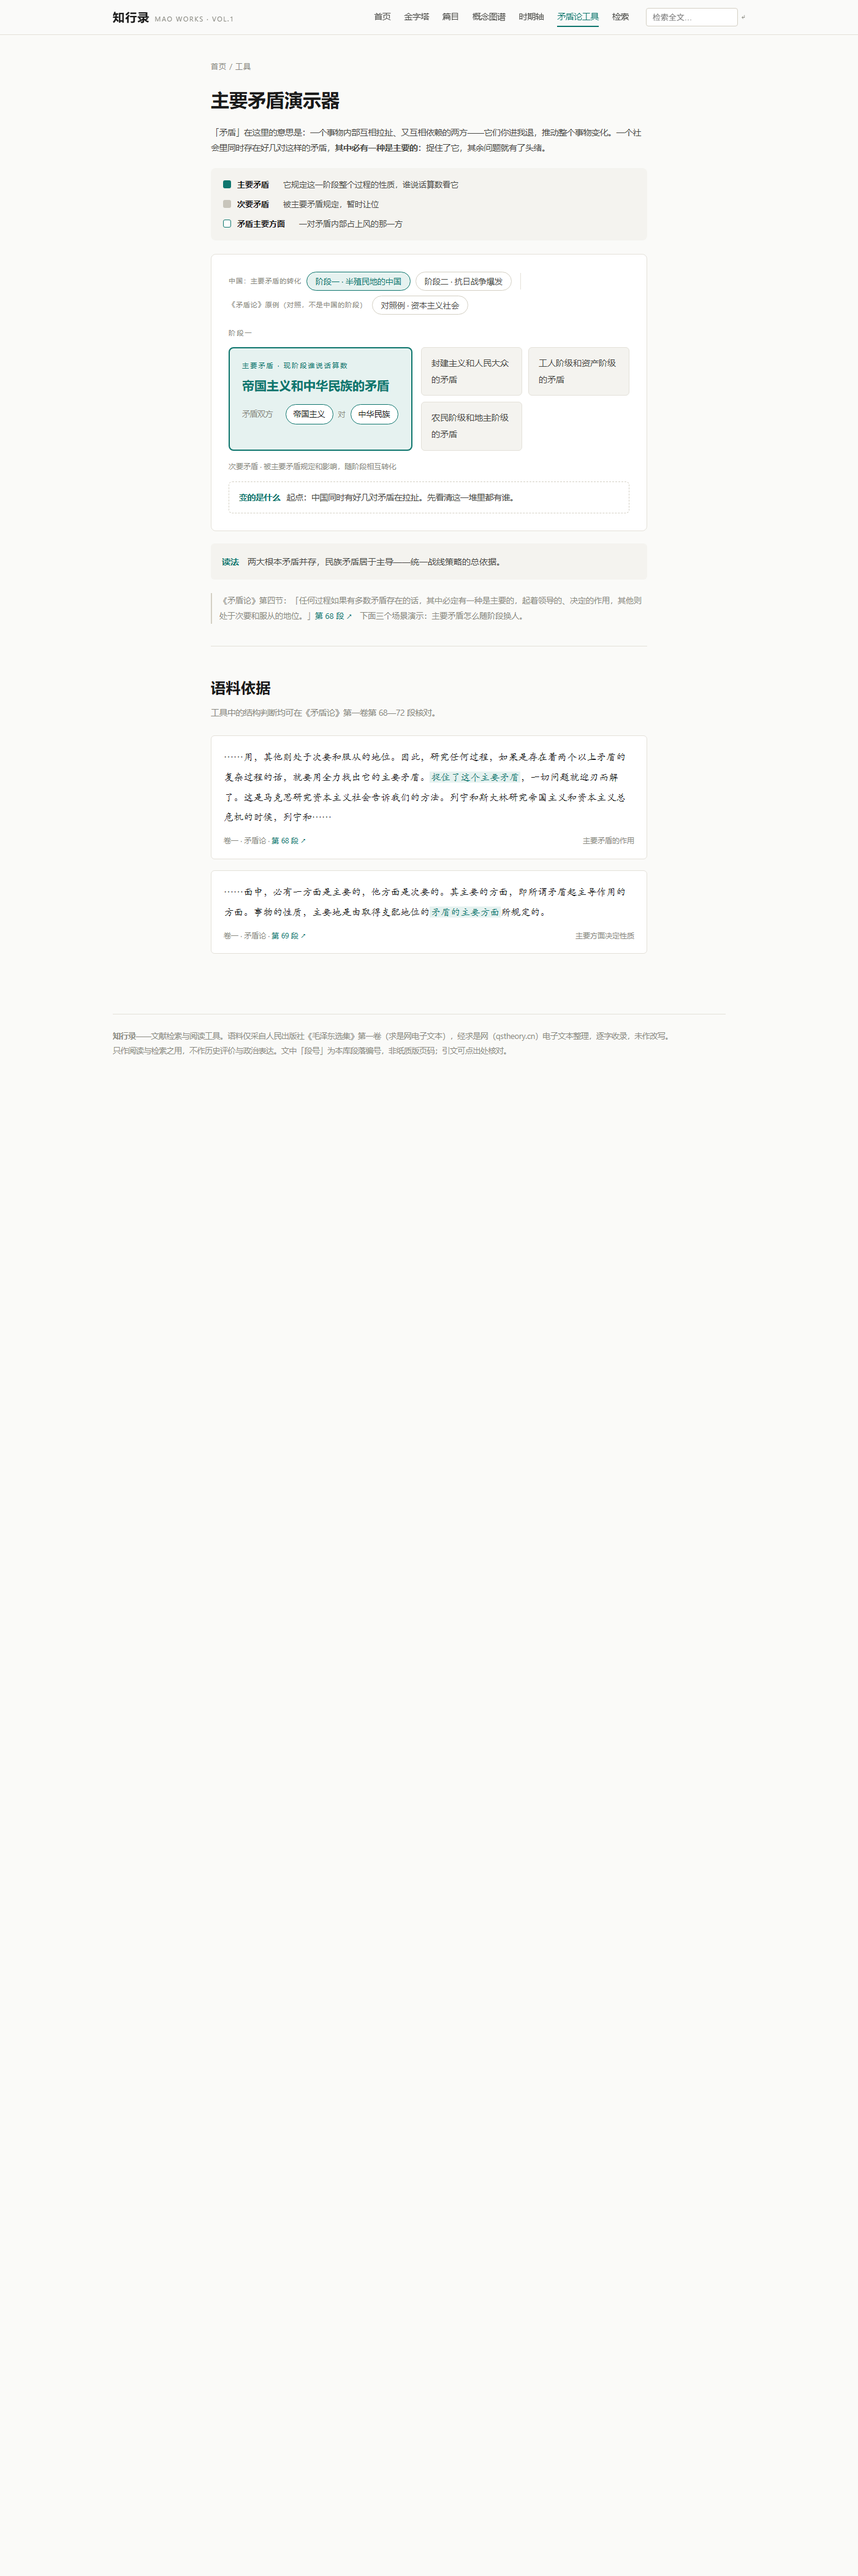
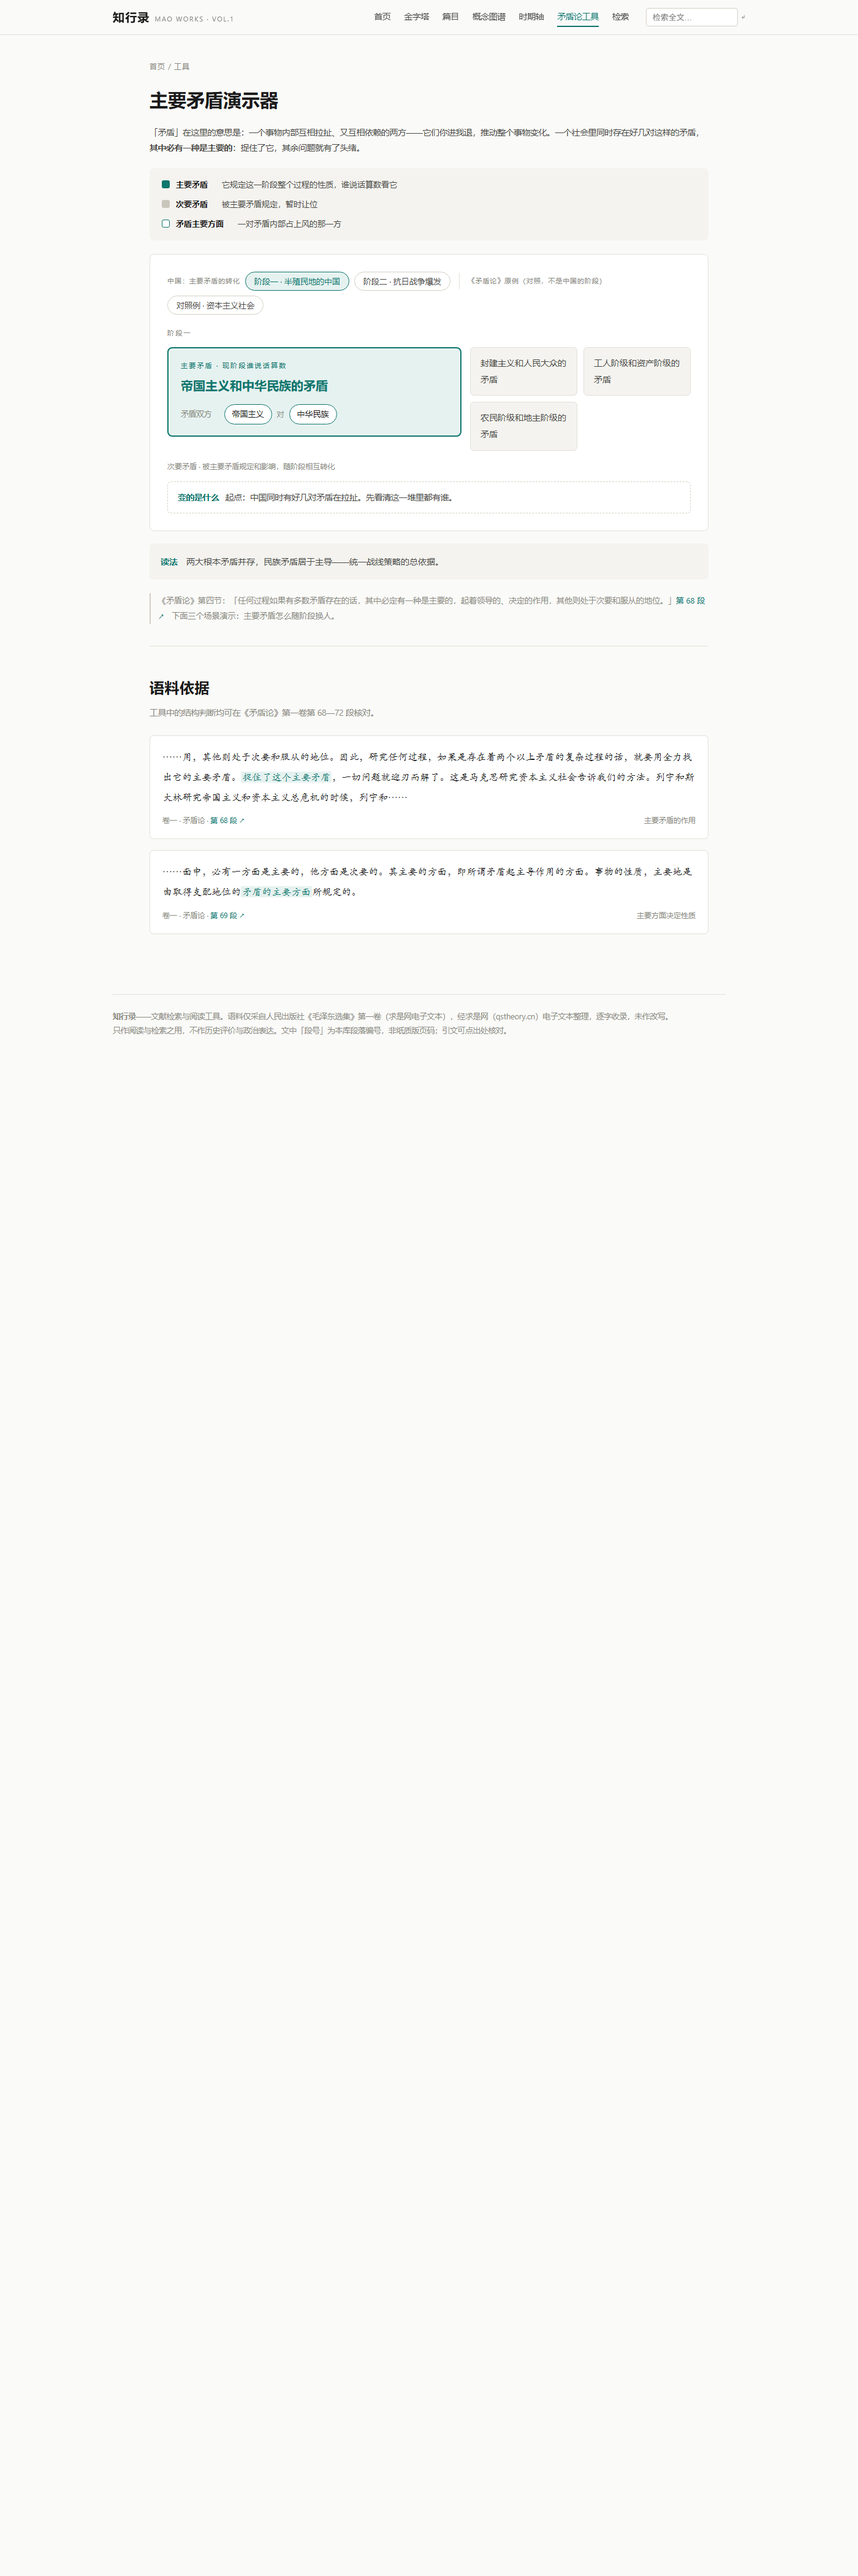
矛盾论工具页高度与折行修正（用户「这个高度有点问题」）：
① 主因：.md-grid 用 align-items:stretch，主矛盾卡被拉高到与右列三卡总高齐平，卡内大片空白。改 flex-start，两栏各按自身内容定高。

② 次因：.md-sec 是两列网格，三张次要矛盾卡落单一张会独占整行并被拉伸。加 align-content:start，每张卡只占内容高度。

③ 折行：「日本帝国主义 对 中华民族」在主卡内被挤成两行。.md-chip 加 white-space:nowrap 保标签不断行；主卡 flex-basis 300→480px 给足宽度，右侧三卡 340→320px；容器加 .tool-wide 变体 960px（演示器图是主角，760px 装不下并排）。

④ 窄屏（≤860px）：主卡改 flex:1 1 100% 撑满、secondary 单列、chip 允许换行、stage 内距收窄；顶栏品牌英文副标（11px 加字距）与固定 150px 检索框在窄屏会顶出视口，一并收起/缩宽。顺带补 .tool-stage 与 .md-grid 的 min-width:0，防止弹性子项撑破页面。

⑤ 测量教训（重要）：Windows 上 Chrome headless 的 --window-size 有最小宽度（实测传 375/390/430 视口都是 489-500px），截图宽度却按传入值裁——于是"内容超出"其实是截图裁切造成的假象。判断是否横向溢出不能看截图，要注入脚本读 documentElement.scrollWidth 对比 clientWidth（本次三档实测 scrollW==vw、溢出元素 0 个）。据此撤掉了草率添加的 body{overflow-x:hidden} 兜底——它会掩盖真问题。

⑥ 附带：演示器支持用 URL hash 指定初始场景（#a/#b/#c），方便直接分享某个阶段的图。

⑦ verify_site 通过（44 页无死链、版本号统一 v22）；style.css?v=22

Changed region(s): [[0.1229, 0.0312, 0.7371, 0.4055], [0.645, 0.3743, 0.7064, 0.4055], [0.7371, 0.3743, 0.7679, 0.4055]]

diff --git a/site/assets/style.css b/site/assets/style.css
@@ -65,6 +65,8 @@ body {
 /* ---------- 布局 ---------- */
 .wrap { max-width: 1080px; margin: 0 auto; padding: 0 24px; }
 .narrow { max-width: 760px; margin: 0 auto; padding: 0 24px; }
+/* 演示器页放宽：主矛盾卡与三张次要矛盾卡并排需要宽度，760px 装不下会折成上下两行 */
+.narrow.tool-wide { max-width: 960px; }
 
 /* ---------- 首页 ---------- */
 .hero { padding: 72px 0 40px; border-bottom: 1px solid var(--line); }
@@ -228,7 +230,10 @@ a.term:hover { border-bottom-color: var(--teal); }
 .tl-item .s { font-size: 13px; color: var(--ink-3); margin-top: 2px; }
 
 /* ---------- 工具页 ---------- */
-.tool-stage { background: #fff; border: 1px solid var(--line); border-radius: 8px; padding: 28px; margin: 20px 0; }
+/* min-width:0 让 stage 在窄屏可以压到比内容更窄，否则内部弹性布局撑破页面 */
+.tool-stage { background: #fff; border: 1px solid var(--line); border-radius: 8px; padding: 28px; margin: 20px 0; min-width: 0; }
+/* 标签行在窄屏要能换行（nowrap 的 chip 会顶出右边界） */
+.md-sides { min-width: 0; }
 /* 图例＝三条阅读规则：色块是图上的记号，右字说明它代表什么、为什么这么画 */
 .tool-legend { display: flex; flex-direction: column; gap: 9px; font-size: 13px; color: var(--ink-2); margin: 20px 0 22px; padding: 16px 20px; background: var(--paper-2); border-radius: 8px; }
 .tool-legend .k { display: flex; align-items: baseline; gap: 10px; line-height: 1.75; }
@@ -246,16 +251,21 @@ a.term:hover { border-bottom-color: var(--teal); }
 .tool-tab-sep { width: 1px; align-self: stretch; background: var(--line); margin: 2px 6px; }
 /* 场景 */
 .md-phase { font-size: 11px; color: var(--ink-3); letter-spacing: 0.2em; margin-bottom: 12px; }
-.md-grid { display: flex; flex-wrap: wrap; gap: 14px; align-items: stretch; }
-.md-main { flex: 1 1 300px; padding: 18px 20px; background: #E6F2F0; border: 2px solid #0F766E; border-radius: 8px; }
+/* stretch 会把主矛盾卡拉高去填右列的总高，造出一大片空白——
+   改 flex-start 让两张卡各按自己的内容定高 */
+.md-grid { display: flex; flex-wrap: wrap; gap: 14px; align-items: flex-start; min-width: 0; }
+/* 主卡与右侧三卡并排：basis 给足「A 对 B」标签不折行，但允许收缩，不与三卡抢到折行 */
+.md-main { flex: 0 1 480px; padding: 18px 20px; background: #E6F2F0; border: 2px solid #0F766E; border-radius: 8px; }
 .md-tag { font-size: 11px; color: #0F766E; letter-spacing: 0.2em; }
 .md-title { font-family: var(--display); font-size: 20px; font-weight: 700; margin-top: 6px; color: #0F766E; line-height: 1.5; }
+/* 标签行：给标签本身留足宽度，避免「日本帝国主义 对 中华民族」被挤成两行 */
 .md-sides { font-size: 12.5px; color: var(--ink-3); margin-top: 16px; display: flex; align-items: center; flex-wrap: wrap; gap: 8px; }
-.md-chip { display: inline-flex; align-items: center; gap: 7px; background: #fff; border: 1px solid #0F766E; border-radius: 999px; padding: 3px 12px; font-size: 13px; color: var(--ink); }
+.md-chip { display: inline-flex; align-items: center; gap: 7px; background: #fff; border: 1px solid #0F766E; border-radius: 999px; padding: 3px 12px; font-size: 13px; color: var(--ink); white-space: nowrap; }
 .md-chip-main { border-width: 2px; font-weight: 600; }
 .md-chip em { font-style: normal; font-size: 10px; color: #fff; background: #0F766E; border-radius: 999px; padding: 1px 7px; letter-spacing: 0.05em; }
 .md-vs { color: var(--ink-3); font-size: 12px; }
-.md-sec { flex: 2 1 340px; display: grid; grid-template-columns: 1fr 1fr; gap: 10px; }
+/* align-content:start——否则三张卡（两列网格里落单一张）会被平均拉伸，各自高得离谱 */
+.md-sec { flex: 1 1 320px; display: grid; grid-template-columns: 1fr 1fr; gap: 10px; align-content: start; }
 .md-sec-card { padding: 12px 16px; background: #F4F3EF; border: 1px solid var(--line); border-radius: 6px; font-size: 14px; color: var(--ink-2); }
 .md-sec-note { font-size: 12px; color: var(--ink-3); margin-top: 14px; }
 .tool-change { font-size: 13.5px; color: var(--ink-2); line-height: 1.9; margin-top: 14px; padding: 12px 16px; background: #fff; border: 1px dashed var(--line-2); border-radius: 6px; }
@@ -328,8 +338,26 @@ a.term:hover { border-bottom-color: var(--teal); }
   .entries { grid-template-columns: repeat(2, 1fr); }
   .concept-grid { grid-template-columns: 1fr; }
   .md-sec { grid-template-columns: 1fr; }
+  /* 窄屏：主卡的 480px basis 会顶破屏幕，改成撑满即可 */
+  .md-main { flex: 1 1 100%; }
+  .md-sides { gap: 6px; }
+  .md-chip { padding: 3px 9px; font-size: 12.5px; white-space: normal; }
+  .md-title { font-size: 17px; word-break: break-all; }
+  .tool-stage { padding: 18px 16px; }
+  .tool-tab { font-size: 12px; padding: 5px 11px; }
+  /* 窄屏兜底：标签组与图例允许断行，防止长中文标签撑破视口 */
+  .tool-tab-grp, .tool-legend .k, .md-sec-note { word-break: break-word; }
+  .tool-legend { padding: 14px 16px; }
   .pyr-branches { grid-template-columns: 1fr; }
   .nav { display: none; }
+  /* 窄屏顶栏：品牌英文副标 + 固定 150px 检索框把顶栏撑出视口，连带整页横向溢出。
+     副标收起、检索框缩宽（聚焦时也不再撑大），顶栏不再溢出 */
+  .brand small { display: none; }
+  .topbar-in { gap: 12px; padding: 0 16px; }
+  .searchbox { margin-left: auto; min-width: 0; }
+  .searchbox input { width: 118px; }
+  .searchbox input:focus { width: 150px; }
+  .wrap, .narrow { padding: 0 16px; }
   .hero { padding: 48px 0 32px; }
   .hero h1 { font-size: 32px; }
   .work-row .ct { display: none; }

diff --git a/site/tool-maodun.html b/site/tool-maodun.html
@@ -5,7 +5,7 @@
 <meta name="viewport" content="width=device-width, initial-scale=1.0">
 <title>主要矛盾演示器 · 知行录</title>
 <meta name="description" content="知行录：《毛泽东选集》第一卷结构化知识库。17 篇正式出版文本，20 个概念节点，46 条溯源引文，每一段都可回溯到卷/篇/段。">
-<link rel="stylesheet" href="assets/style.css?v=19">
+<link rel="stylesheet" href="assets/style.css?v=22">
 </head>
 <body>
 <header class="topbar"><div class="topbar-in">
@@ -13,7 +13,7 @@
 <nav class="nav"><a href="index.html">首页</a><a href="pyramid.html">金字塔</a><a href="works.html">篇目</a><a href="concepts.html">概念图谱</a><a href="timeline.html">时期轴</a><a href="tool-maodun.html" class="on">矛盾论工具</a><a href="search.html">检索</a></nav>
 <div class="searchbox"><input id="q" type="search" placeholder="检索全文…" autocomplete="off"><span style="font-size:11px;color:var(--ink-3)">↵</span></div>
 </div></header>
-<div class="narrow" style="padding-top:40px">
+<div class="narrow tool-wide" style="padding-top:40px">
 <div class="crumb" style="font-size:12px;color:var(--ink-3)"><a href="index.html" style="color:var(--ink-3);text-decoration:none">首页</a> / 工具</div>
 <h1 style="font-family:var(--display);font-size:30px;font-weight:700">主要矛盾演示器</h1>
 <p style="font-size:13.5px;color:var(--ink-2);margin:12px 0 4px;line-height:1.9">「矛盾」在这里的意思是：一个事物内部互相拉扯、又互相依赖的两方——它们你进我退，推动整个事物变化。一个社会里同时存在好几对这样的矛盾，<b>其中必有一种是主要的</b>：捉住了它，其余问题就有了头绪。</p>

diff --git a/site/works/v1-003.html b/site/works/v1-003.html
@@ -5,7 +5,7 @@
 <meta name="viewport" content="width=device-width, initial-scale=1.0">
 <title>中国的红色政权为什么能够存在？ · 知行录</title>
 <meta name="description" content="知行录：《毛泽东选集》第一卷结构化知识库。17 篇正式出版文本，20 个概念节点，46 条溯源引文，每一段都可回溯到卷/篇/段。">
-<link rel="stylesheet" href="../assets/style.css?v=19">
+<link rel="stylesheet" href="../assets/style.css?v=22">
 </head>
 <body>
 <header class="topbar"><div class="topbar-in">

diff --git a/site/concepts/zhuyaomaodun.html b/site/concepts/zhuyaomaodun.html
@@ -5,7 +5,7 @@
 <meta name="viewport" content="width=device-width, initial-scale=1.0">
 <title>主要的矛盾和主要的矛盾方面 · 知行录</title>
 <meta name="description" content="知行录：《毛泽东选集》第一卷结构化知识库。17 篇正式出版文本，20 个概念节点，46 条溯源引文，每一段都可回溯到卷/篇/段。">
-<link rel="stylesheet" href="../assets/style.css?v=19">
+<link rel="stylesheet" href="../assets/style.css?v=22">
 </head>
 <body>
 <header class="topbar"><div class="topbar-in">

diff --git a/site/works/v1-011.html b/site/works/v1-011.html
@@ -5,7 +5,7 @@
 <meta name="viewport" content="width=device-width, initial-scale=1.0">
 <title>关心群众生活，注意工作方法 · 知行录</title>
 <meta name="description" content="知行录：《毛泽东选集》第一卷结构化知识库。17 篇正式出版文本，20 个概念节点，46 条溯源引文，每一段都可回溯到卷/篇/段。">
-<link rel="stylesheet" href="../assets/style.css?v=19">
+<link rel="stylesheet" href="../assets/style.css?v=22">
 </head>
 <body>
 <header class="topbar"><div class="topbar-in">

diff --git a/site/works/v1-015.html b/site/works/v1-015.html
@@ -5,7 +5,7 @@
 <meta name="viewport" content="width=device-width, initial-scale=1.0">
 <title>中国共产党在抗日时期的任务 · 知行录</title>
 <meta name="description" content="知行录：《毛泽东选集》第一卷结构化知识库。17 篇正式出版文本，20 个概念节点，46 条溯源引文，每一段都可回溯到卷/篇/段。">
-<link rel="stylesheet" href="../assets/style.css?v=19">
+<link rel="stylesheet" href="../assets/style.css?v=22">
 </head>
 <body>
 <header class="topbar"><div class="topbar-in">

diff --git a/site/works/v1-012.html b/site/works/v1-012.html
@@ -5,7 +5,7 @@
 <meta name="viewport" content="width=device-width, initial-scale=1.0">
 <title>论反对日本帝国主义的策略 · 知行录</title>
 <meta name="description" content="知行录：《毛泽东选集》第一卷结构化知识库。17 篇正式出版文本，20 个概念节点，46 条溯源引文，每一段都可回溯到卷/篇/段。">
-<link rel="stylesheet" href="../assets/style.css?v=19">
+<link rel="stylesheet" href="../assets/style.css?v=22">
 </head>
 <body>
 <header class="topbar"><div class="topbar-in">

diff --git a/site/works/v1-005.html b/site/works/v1-005.html
@@ -5,7 +5,7 @@
 <meta name="viewport" content="width=device-width, initial-scale=1.0">
 <title>关于纠正党内的错误思想 · 知行录</title>
 <meta name="description" content="知行录：《毛泽东选集》第一卷结构化知识库。17 篇正式出版文本，20 个概念节点，46 条溯源引文，每一段都可回溯到卷/篇/段。">
-<link rel="stylesheet" href="../assets/style.css?v=19">
+<link rel="stylesheet" href="../assets/style.css?v=22">
 </head>
 <body>
 <header class="topbar"><div class="topbar-in">

diff --git a/site/works/v1-013.html b/site/works/v1-013.html
@@ -5,7 +5,7 @@
 <meta name="viewport" content="width=device-width, initial-scale=1.0">
 <title>中国革命战争的战略问题 · 知行录</title>
 <meta name="description" content="知行录：《毛泽东选集》第一卷结构化知识库。17 篇正式出版文本，20 个概念节点，46 条溯源引文，每一段都可回溯到卷/篇/段。">
-<link rel="stylesheet" href="../assets/style.css?v=19">
+<link rel="stylesheet" href="../assets/style.css?v=22">
 </head>
 <body>
 <header class="topbar"><div class="topbar-in">

diff --git a/site/concepts/maodun.html b/site/concepts/maodun.html
@@ -5,7 +5,7 @@
 <meta name="viewport" content="width=device-width, initial-scale=1.0">
 <title>矛盾（对立统一法则） · 知行录</title>
 <meta name="description" content="知行录：《毛泽东选集》第一卷结构化知识库。17 篇正式出版文本，20 个概念节点，46 条溯源引文，每一段都可回溯到卷/篇/段。">
-<link rel="stylesheet" href="../assets/style.css?v=19">
+<link rel="stylesheet" href="../assets/style.css?v=22">
 </head>
 <body>
 <header class="topbar"><div class="topbar-in">

diff --git a/site/works/v1-001.html b/site/works/v1-001.html
@@ -5,7 +5,7 @@
 <meta name="viewport" content="width=device-width, initial-scale=1.0">
 <title>中国社会各阶级的分析 · 知行录</title>
 <meta name="description" content="知行录：《毛泽东选集》第一卷结构化知识库。17 篇正式出版文本，20 个概念节点，46 条溯源引文，每一段都可回溯到卷/篇/段。">
-<link rel="stylesheet" href="../assets/style.css?v=19">
+<link rel="stylesheet" href="../assets/style.css?v=22">
 </head>
 <body>
 <header class="topbar"><div class="topbar-in">

diff --git a/site/works/v1-002.html b/site/works/v1-002.html
@@ -5,7 +5,7 @@
 <meta name="viewport" content="width=device-width, initial-scale=1.0">
 <title>湖南农民运动考察报告 · 知行录</title>
 <meta name="description" content="知行录：《毛泽东选集》第一卷结构化知识库。17 篇正式出版文本，20 个概念节点，46 条溯源引文，每一段都可回溯到卷/篇/段。">
-<link rel="stylesheet" href="../assets/style.css?v=19">
+<link rel="stylesheet" href="../assets/style.css?v=22">
 </head>
 <body>
 <header class="topbar"><div class="topbar-in">
